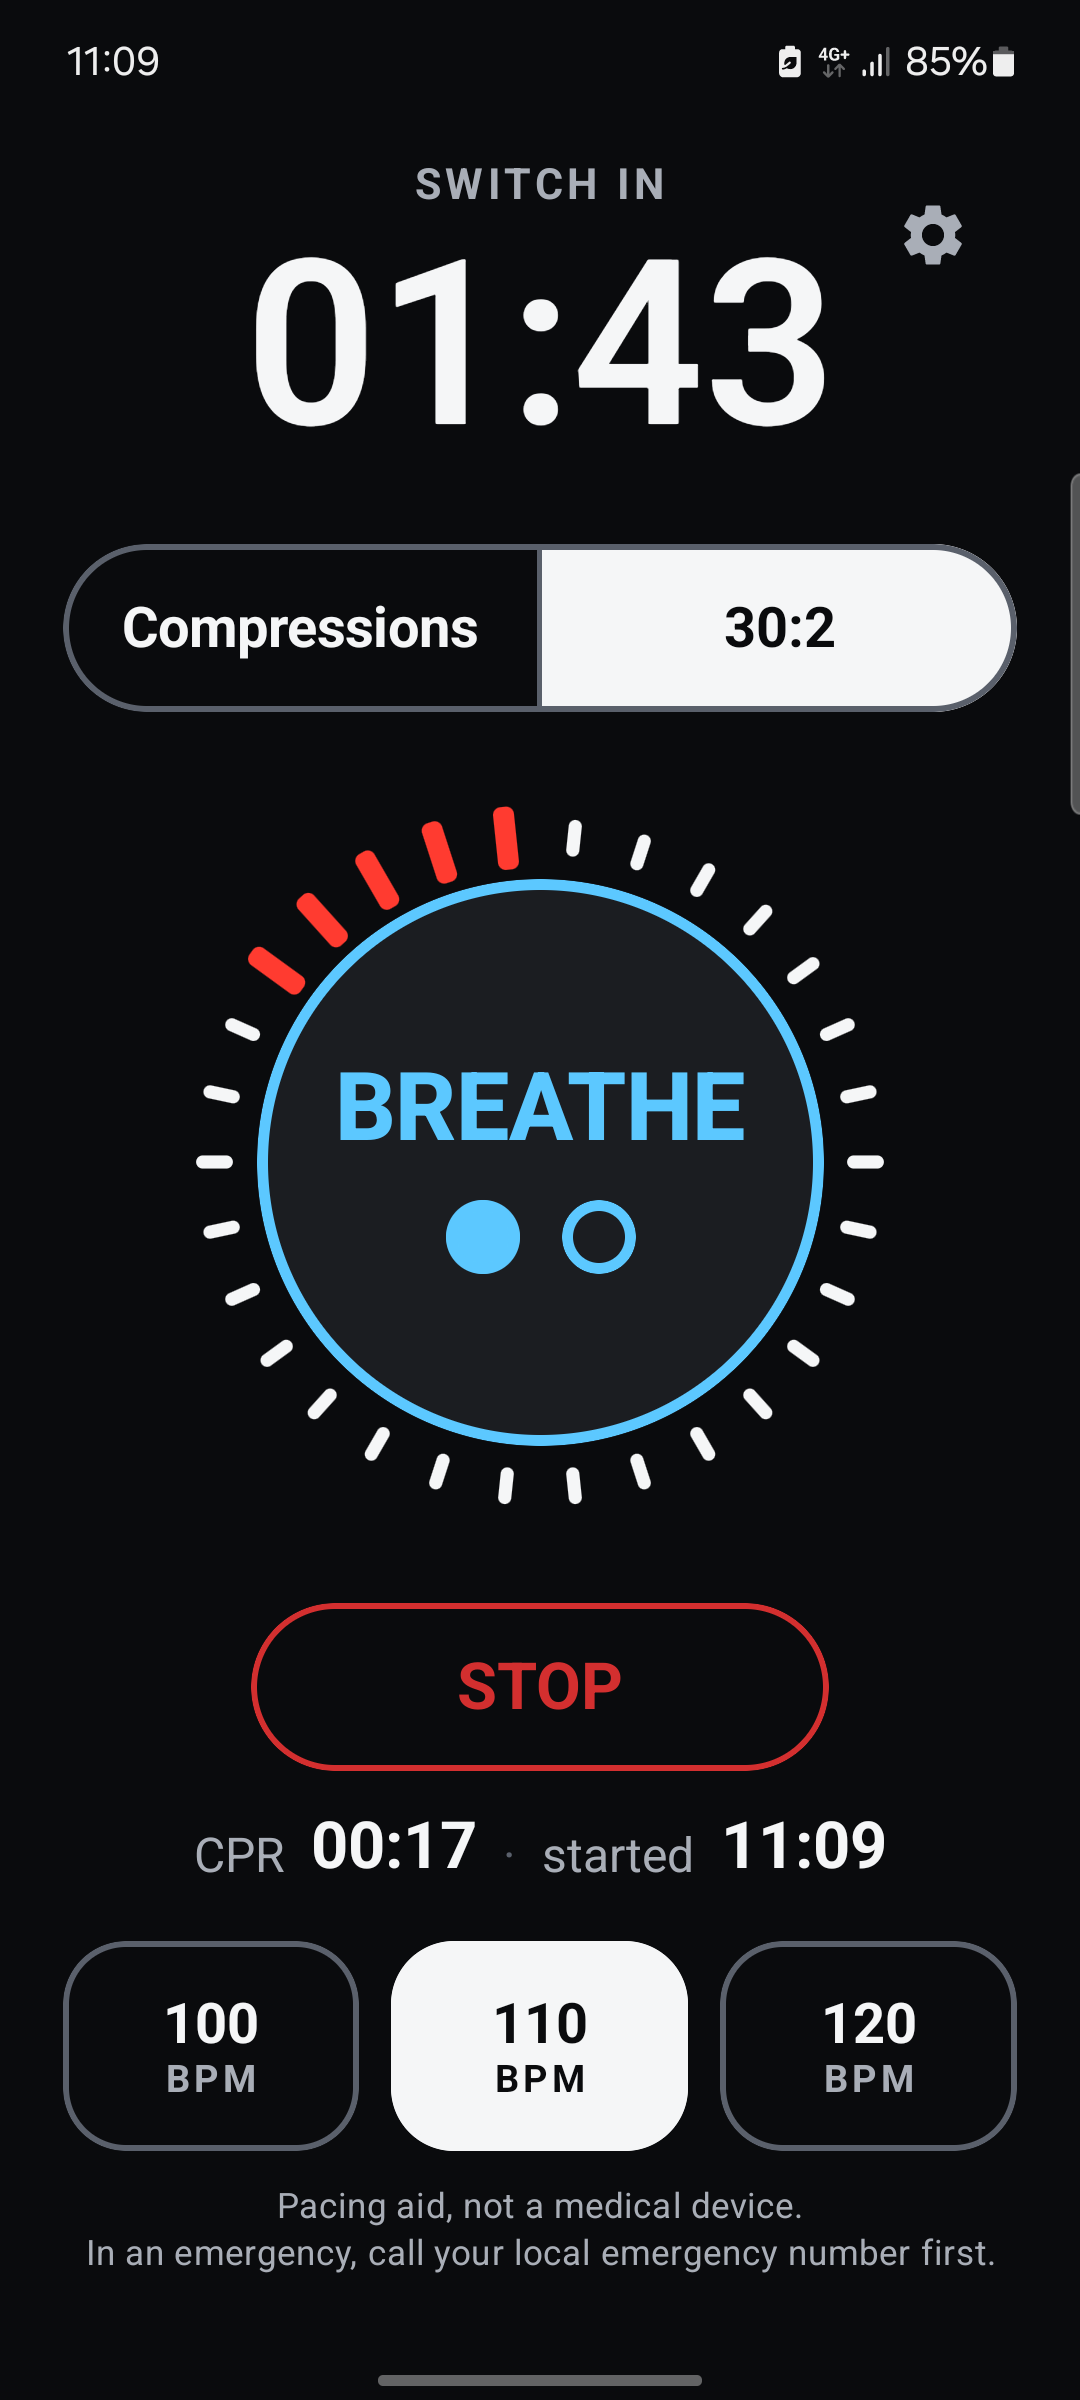
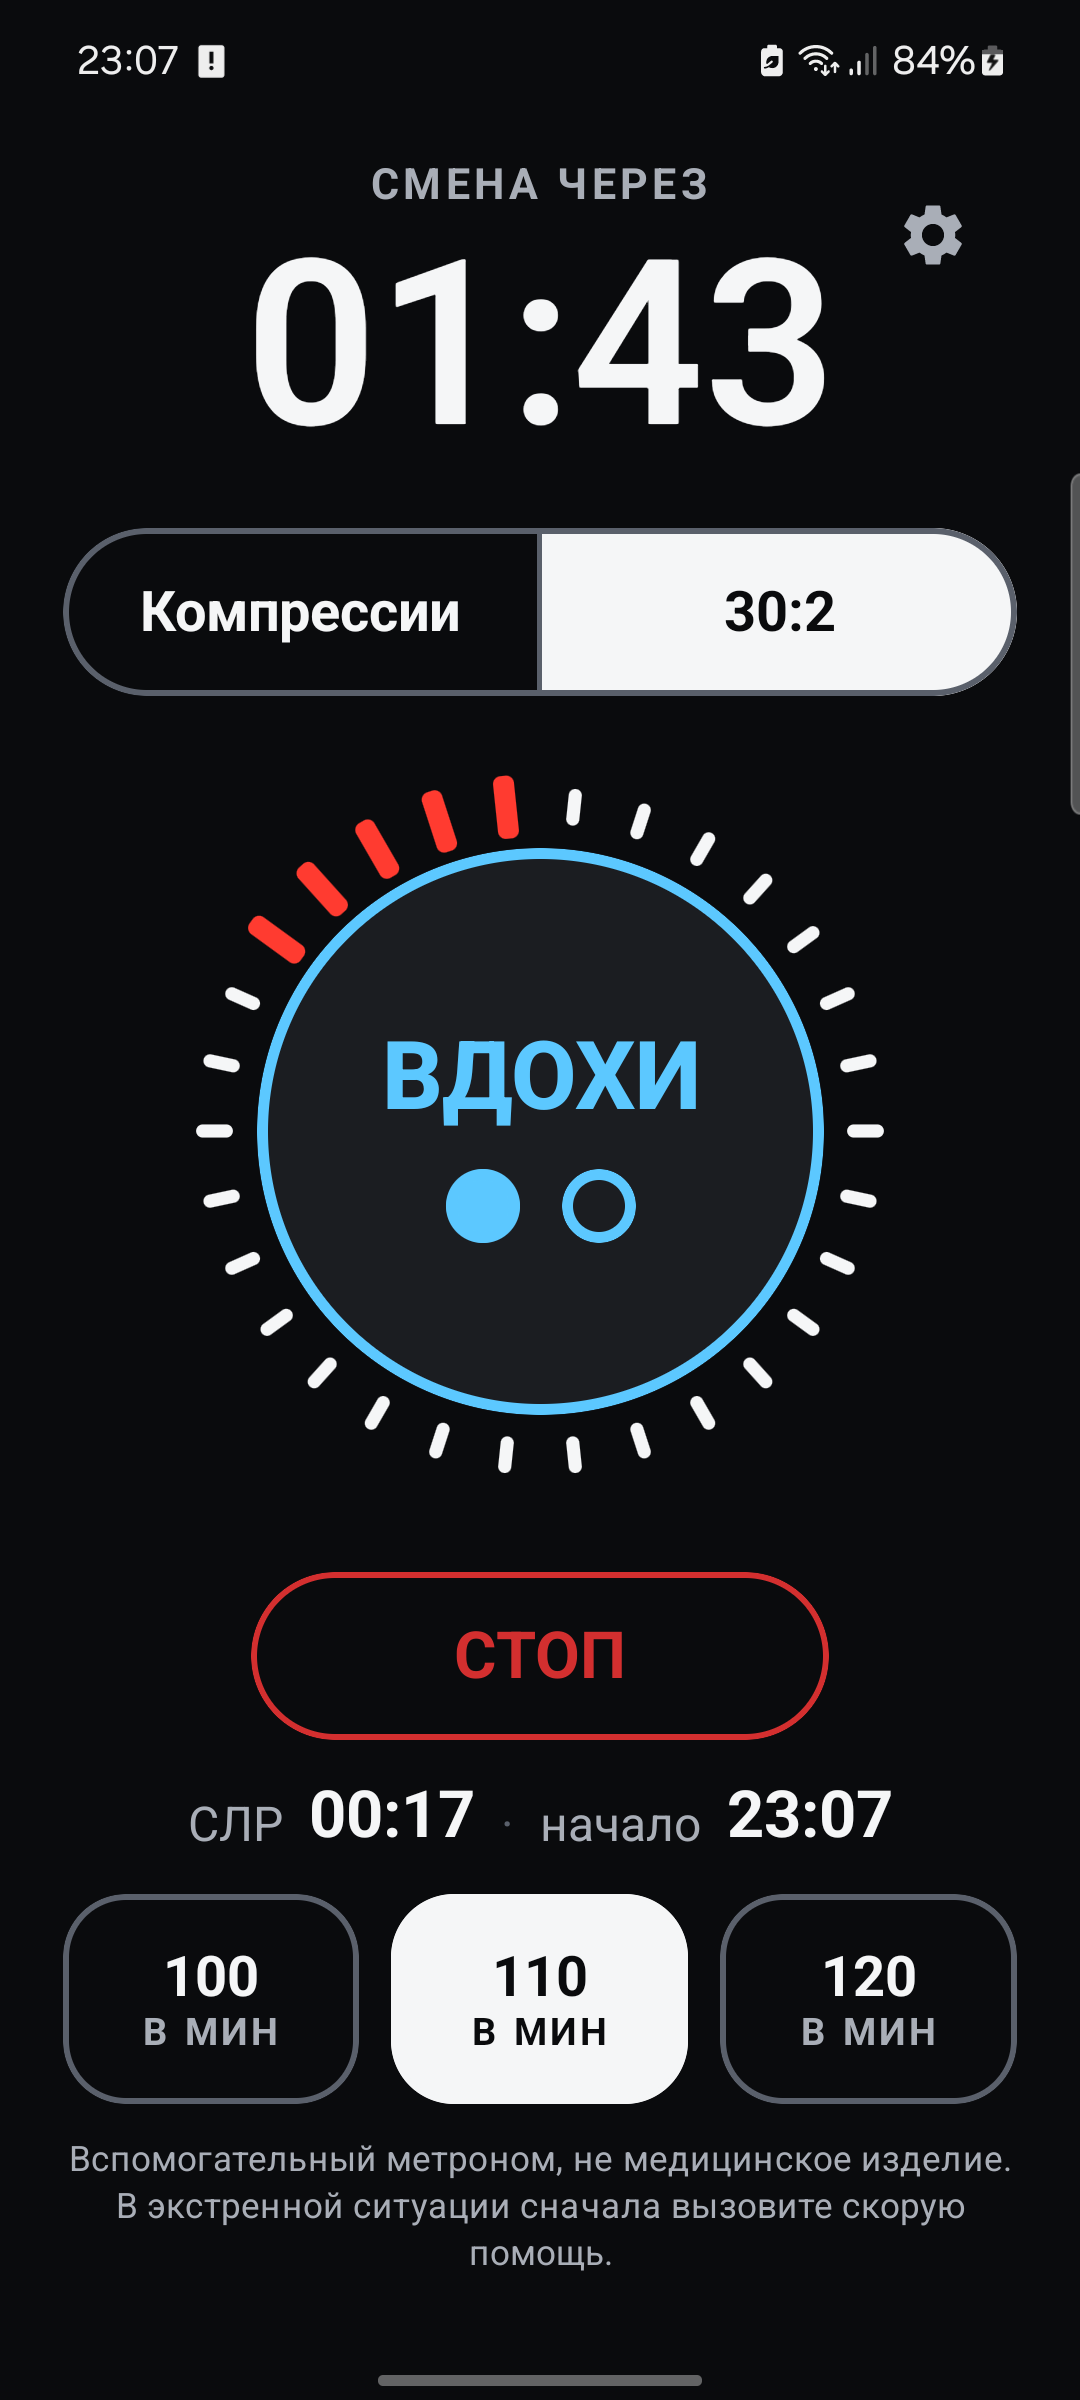
Release 0.3.0
versionCode 3, versionName 0.3.0. CHANGELOG moves the Unreleased entries
under 0.3.0; release notes in both fastlane locales, listings regenerated
with them. Store screenshots retaken on the Samsung A52 from the 0.3.0
release build: the English set (Settings now shows Language) and, for the
first time, a Russian set with the Russian interface.

diff --git a/store/listings/build.py b/store/listings/build.py
@@ -18,7 +18,7 @@ from pathlib import Path
 ROOT = Path(__file__).resolve().parents[2]
 META = ROOT / "fastlane" / "metadata" / "android"
 OUT = Path(__file__).resolve().parent
-VERSION_CODE = 2  # release notes file: changelogs/<versionCode>.txt
+VERSION_CODE = 3  # release notes file: changelogs/<versionCode>.txt
 
 
 def read(locale: str, name: str) -> str:

diff --git a/store/STORE_GUIDE.md b/store/STORE_GUIDE.md
@@ -13,10 +13,10 @@ organization (sections at the end). Per-store research: SPEC.md section 11.6.
 |---|---|
 | Release build | `./gradlew bundleRelease assembleRelease` with `keystore.properties` present. AAB in `app/build/outputs/bundle/release/`, APK in `app/build/outputs/apk/release/`. Also attached to the GitHub release. |
 | Signing key | `~/.cprbeat/release.jks`, alias `cprbeat`, PKCS12. Password in the password manager. **Back it up off the laptop.** Certificate SHA-256 `12:9F:19:E1:CA:54:F1:79:FA:58:E0:F0:60:1F:6B:8B:F3:AA:9F:A4:35:C5:7D:3F:77:F1:E0:F0:64:BF:C5:23`. |
-| App id / version | `dev.alcini.cprbeat`, versionCode 2, versionName 0.2.0. Bump both in `app/build.gradle.kts` for every store upload; stores reject a reused versionCode. |
+| App id / version | `dev.alcini.cprbeat`, versionCode 3, versionName 0.3.0. Bump both in `app/build.gradle.kts` for every store upload; stores reject a reused versionCode. |
 | Icon 512×512 | `store/icon-512.png` |
 | Feature graphic 1024×500 | `store/feature-graphic-1024x500.png` (Play only, others optional) |
-| Screenshots | `fastlane/metadata/android/en-US/images/phoneScreenshots/` (1080×2400, from the Samsung A52) |
+| Screenshots | `fastlane/metadata/android/en-US/images/phoneScreenshots/` (English UI) and `ru-RU/…` (Russian UI), both from the Samsung A52 at 0.3.0, 1080×2400 |
 | Texts EN | `fastlane/metadata/android/en-US/{title,short_description,full_description}.txt` (source of truth) |
 | Texts RU | `fastlane/metadata/android/ru-RU/…` |
 | Paste-ready listings per store | `store/listings/*.md`, regenerated by `python3 store/listings/build.py`; limits, languages and console settings per store in `store/listings/README.md` |

diff --git a/CHANGELOG.md b/CHANGELOG.md
@@ -8,6 +8,8 @@ matching entry at release time.
 
 ## [Unreleased]
 
+## [0.3.0] - 2026-10-09
+
 ### Added
 
 - Russian interface.
@@ -70,6 +72,7 @@ matching entry at release time.
   per-session overrides.
 - First-launch hints, dark theme, English only, fully offline with no permissions.
 
-[Unreleased]: https://github.com/alessioalcini/cpr-beat/compare/v0.2.0...HEAD
+[Unreleased]: https://github.com/alessioalcini/cpr-beat/compare/v0.3.0...HEAD
+[0.3.0]: https://github.com/alessioalcini/cpr-beat/compare/v0.2.0...v0.3.0
 [0.2.0]: https://github.com/alessioalcini/cpr-beat/compare/9579741...v0.2.0
 [0.1.0]: https://github.com/alessioalcini/cpr-beat/tree/9579741b4fa99711d1abe26ec629907182a655fb
